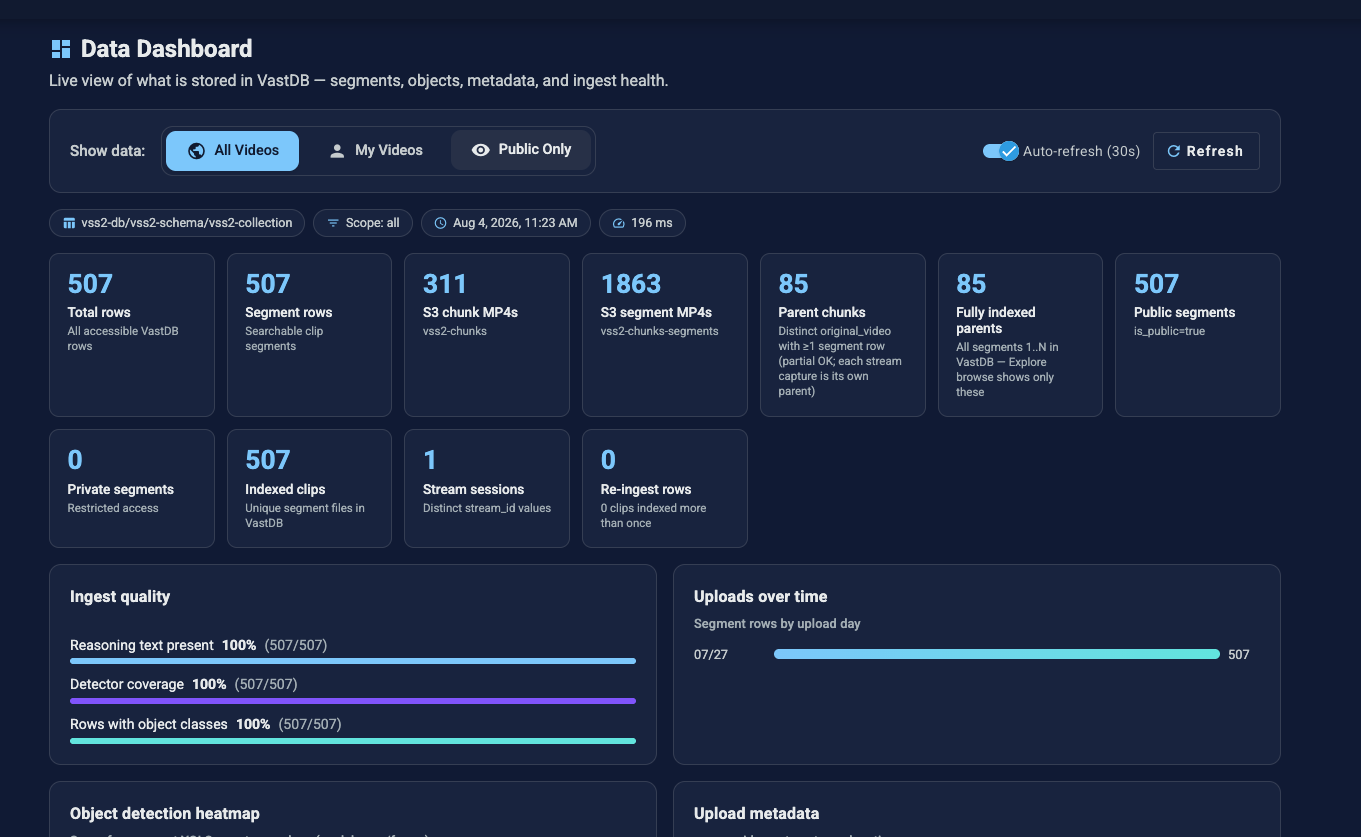
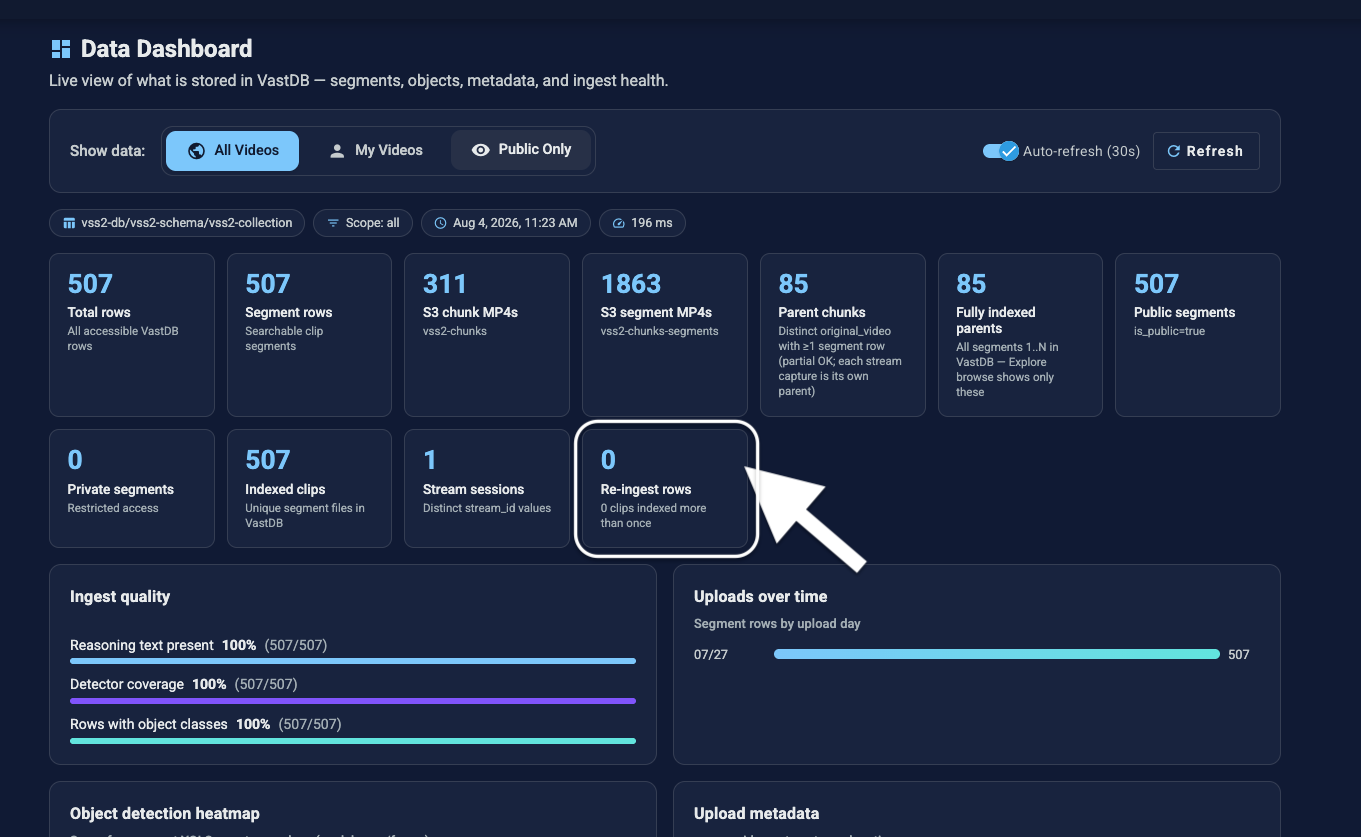
Restructure sections, standardize re-ingest terminology, trim risky password echo
- Nest Video Search & Summary UI under §2, move Reference to the end as an appendix
- Rename §6 Judging to Demos, fold the one-line Demo subsection into prose
- Standardize on re-ingest throughout for the attendee action (matches the real
  reingest-videos/reingest-chunk skill names and the dashboard's own 'Re-ingest rows'
  label); keep plain ingest for new content and system/dashboard health references
- Tighten the skills intro: ingest/retrieval are the core two for the day, others are
  there to explore
- Add a licensing note: don't ingest video from the internet
- Remove the echo $PASSWORD instruction (auth is automatic, nothing to type, and it
  risked exposing the password in pasted terminal output)
- flow.svg: widen canvas further, fix pizza emoji overlap (3 slices with letter-spacing
  in a properly sized gap)
- Pick up updated screenshots (vm-load, vss-ui-load, vss-search, vss-dashboard)

diff --git a/BUILD_DAY.md b/BUILD_DAY.md
@@ -87,13 +87,11 @@ Before you kick off the coding agent and start using skills, head to the next se
 ### If something looks off
 Run the health check in the [Reference](#reference) section. If it fails, or you need more help, run `/ask-cosmos` and post the result on <a href="https://community.vastdata.com/t/about-the-workshop-category/1969" target="_blank" rel="noopener">Cosmos</a>, and we'll follow up.
 
-## Video Search & Summary UI
+### Video Search & Summary UI
 > 💡 This example app runs on the same API as the skills (`.cursor/skills`) you will be using. It's a built idea of what you can build today, and a quick way to check things out while building.
 
 From the same page you loaded the VM, click on Video Search & Summary:
 <p align="center"><img src="docs/images/vss-ui-load.png" alt="The VSS link on the VAST workshop home page" width="90%"></p>
-
-If presented with a login screen, use `USERNAME` and `PASSWORD`, which you can access by typing `echo $USERNAME` and `echo $PASSWORD` in the VM terminal.
 
 Try a few of the search suggestions to see ranked clips with timestamps and the description Cosmos Reason returned for each one:
 
@@ -108,14 +106,14 @@ Explore the three tabs:
 
 > 💡 We'll try these out in the next section.
 
-The skills live in `.cursor/skills/`, split into `ingest/` and `retrieval/` (explore the
-folder to see all skills). Each skill guides the coding agent: the endpoint, the request,
-the response, and what to do when it fails.
+The core skills for the day are `ingest/` and `retrieval/`, in `.cursor/skills/`. More
+skills cover the rest of the deployed stack, if you want to explore. Each skill guides the
+coding agent: the endpoint, the request, the response, and what to do when it fails.
 
 Describe what you want and the coding agent loads the matching skill.
 
 ```
-"ingest the warehouse video with a prompt about safety gear"
+"re-ingest the warehouse video with a prompt about safety gear"
 "find people near the entrance after 6pm"
 "summarize what happens in the warehouse video"
 ```
@@ -123,11 +121,11 @@ Describe what you want and the coding agent loads the matching skill.
 Skills read what they need from environment variables, so nothing should ask you for a
 password or a URL. If something isn't working, ask for help.
 
-### Ingest: re-running video
+### Re-ingest: running it again
 
-> ⚠ **IMPORTANT:** Avoid having everyone on the team ingest large chunks of video (i.e. hours of video). Designate 1-2 team members to handle kicking off majority of the ingestion. Its okay for each team member to ingest a few videos to try things out.
+> ⚠ **IMPORTANT:** Avoid having everyone on the team re-ingest large chunks of video (i.e. hours of video). Designate 1-2 team members to handle kicking off majority of the re-ingestion. It's okay for each team member to re-ingest a few videos to try things out.
 
-Your team's video is already indexed. Ingest here means running it through the pipeline
+Your team's video is already indexed. Re-ingest means running it through the pipeline
 again with a different prompt, so the descriptions match what you're building.
 
 | Skill | Use it to |
@@ -135,7 +133,7 @@ again with a different prompt, so the descriptions match what you're building.
 | `reingest-videos` | Re-run a whole indexed video with a new prompt or metadata |
 | `reingest-chunk` | Re-run one specific chunk, found by filename, scene, date, or camera |
 
-**Ingesting takes a few minutes.** Every segment is described, embedded, and detected
+**Re-ingesting takes a few minutes.** Every segment is described, embedded, and detected
 again before it becomes searchable. Ask Cursor to confirm before you go looking.
 
 > 💡 **The prompt decides what gets indexed.** Cosmos Reason describes every segment
@@ -143,8 +141,8 @@ again before it becomes searchable. Ask Cursor to confirm before you go looking.
 > you can't search for it later.
 >
 > On a construction site you might ask it to describe safety gear. In a public space you
-> might ask to identify people with umbrellas are in frame. Search the existing index for what your idea
-> needs; if it isn't there, that's what ingesting is for.
+> might ask whether anyone with an umbrella is in frame. Search the existing index for what your idea
+> needs; if it isn't there, that's what re-ingesting is for.
 >
 > Tell Cursor what you want described, in your own words, or one of the built-in preset
 > scenarios. Ask Cursor to list the scenarios (`list-metadata` looks these up live) if
@@ -206,10 +204,10 @@ Counts of people. What someone is carrying. Whether a vehicle stopped.
 If it comes back empty, that's not a broken search. It means the ingestion prompt never
 asked about it, so nothing was written down.
 
-### Ingest with your prompt
+### Re-ingest with your prompt
 
 ```
-ingest <that video> with a prompt that describes <what your app needs>
+re-ingest <that video> with a prompt that describes <what your app needs>
 ```
 
 Cursor loads `reingest-videos`, shows you what it's about to re-run, and asks for the
@@ -224,7 +222,7 @@ To watch progress, ask `is it done yet?` or open the Dashboard tab:
 
 ### That's the whole loop
 
-Search, ask, ingest, search again. Everything you build today sits on those steps. If
+Search, ask, re-ingest, search again. Everything you build today sits on those steps. If
 they worked, your stack is healthy and you can start building.
 
 If any of them didn't, run the health check in the [Reference](#reference) section.
@@ -240,9 +238,10 @@ If any of them didn't, run the health check in the [Reference](#reference) secti
 - A set of **skills** that drive the pipeline in plain language. See the section on
   [Skills](#3-skills-skills-skills).
 
-## 5. Build
+> ⚠ **Don't ingest videos from the internet (e.g. YouTube).** We picked the
+> provided video sources specifically because their licensing allows this use.
 
-> 💡 For a deeper dive, check out the <a href="https://github.com/relaxedtomato/vast-builders-challenge/blob/main/ARCHITECTURE_REFERENCE.md" target="_blank" rel="noopener">Architecture Reference</a>.
+## 5. Build
 
 ### What "done" looks like
 You have a working index and you know how to query it. The rest of the day is what you
@@ -273,9 +272,9 @@ cases, and worked example queries, see the
 3. **Deploy and iterate**
 
 If the existing captions cover what you need, you never have to think about prompts. If they
-don't, ingest the footage again with a different prompt.
+don't, re-ingest the footage with a different prompt.
 
-> 💡 **Start with a few clips.** Read the captions that come back before you ingest anything
+> 💡 **Start with a few clips.** Read the captions that come back before you re-ingest anything
 > at volume.
 
 ### LLM access
@@ -289,6 +288,23 @@ credits, reach out to the Weights & Biases by CoreWeave team :)
 
 The skills used by Cursor can be used by agent frameworks too. They follow the standard
 `SKILL.md` format, so most frameworks load them straight from `.cursor/skills/`.
+
+## 6. Demos
+
+Ask Cursor to run the submission skill:
+
+```
+help me submit our project
+```
+
+It drafts your project description from your code, walks you through each section, and
+writes `SUBMISSION.md` in the repo for you to reference. Wait for instructions on how to
+submit.
+
+> 💡 **Have this ready:** a link to your code or repo. An incomplete submission may not be
+> judged.
+
+We'll do a first round of judging with each team to walk through what you built and to hear how the day went.
 
 ## Reference
 
@@ -314,21 +330,3 @@ If it fails, or you need more help, run `/ask-cosmos`. The skill shares a snippe
 Everything the skills need is already in your environment. `config.example` in this repo
 lists every variable with a description.
 
-## 6. Judging
-
-Ask Cursor to run the submission skill:
-
-```
-help me submit our project
-```
-
-It drafts your project description from your code, walks you through each section, and
-writes `SUBMISSION.md` in the repo for you to reference. Wait for instructions on how to
-submit.
-
-> 💡 **Have this ready:** a link to your code or repo. An incomplete submission may not be
-> judged.
-
-### Demo
-
-We'll do a first round of judging with each team to walk through what you built and to hear how the day went.
